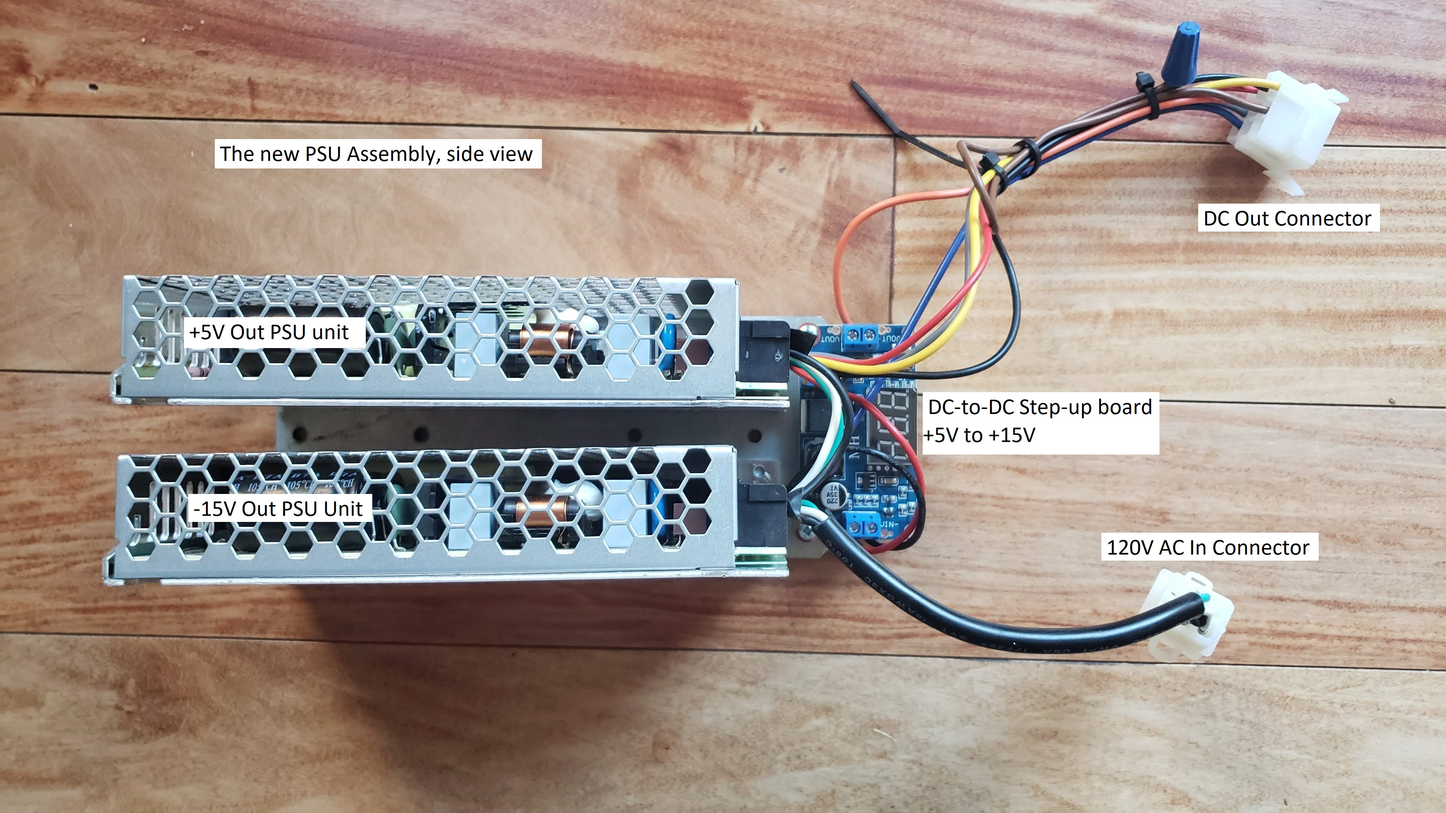
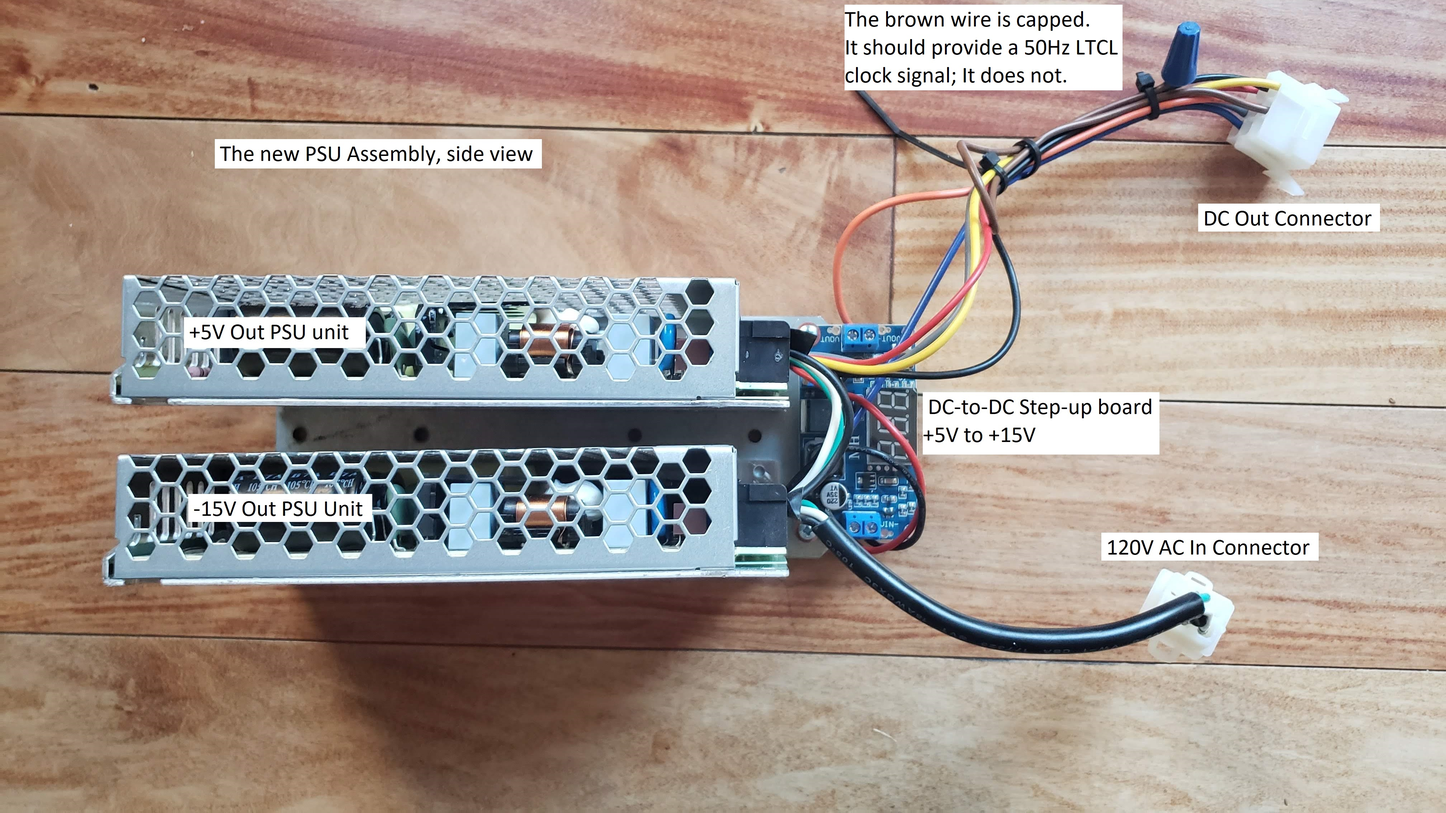
Yaaay. I am done. Am I?

Changed region(s): [[0.5625, 0.0, 0.7812, 0.1235]]

diff --git a/README.md b/README.md
@@ -36,7 +36,7 @@ In reality, I found out that my PDP11/05 uses much less that (note: it draws the
 
 - +5V: 11A
 - +15V: 0.06A
-- 15V: 0.2A
+- -15V: 0.2A
 
 
 ## Parts list for the new PSU
@@ -75,7 +75,7 @@ Crimp 3 wires (white, black and green) to the 3 male pins, and plug them at the 
 
 Crimp 7 different-colored wires to the 7 female pins, and plug them in the 9-pin connector. Connect the other ends according to the diagram.
 
-Complete all other wirings according to the diagram
+Complete all other wirings according to the diagram.
 
 Verify your work by comparing it with the wiring diagram and the provided photos. Pull on each wire and ensure that it is secured well.
 
@@ -92,7 +92,10 @@ Plug the PDP computer power cable in the outlet and turn on the key in front of 
 Adjust the voltage on the DC-to-DC step-up transformer to 15.0V by rotating the potentiometer on in with a small flat-head screwdriver.
 Measure the voltages at the 9-pin (DC out) connector and make sure they are the same as on the diagram. If not, 
 
-Turn off the PDP from the key on the front panel, disconnect the PDP computer power cable, plug the 9-pin (DC out) connector into the PDP, then restore power and turn on the power key again to horizontal position (power on). The PDP should run. Measure the voltages on the back of the backplane; I have labeled the wires (using white paper tape) that provide power to the backplane with labels "5V", "15V", "-15V", "Ground"; this simplifies this check. This is it! We did it. 
+Turn off the PDP from the key on the front panel, disconnect the PDP computer power cable, plug the 9-pin (DC out) connector into the PDP,
+then restore power and turn on the power key again to horizontal position (power on). The PDP should run.
+Measure the voltages on the back of the backplane; on mine, I have labeled the wires (using white paper tape) that provide power to the backplane with labels
+"5V", "15V", "-15V", "Ground"; this simplifies this check. This is it! We did it. Yaaaay.
 
 Note: No cats were harmed while building and testing this project!
 
@@ -100,9 +103,10 @@ Note: No cats were harmed while building and testing this project!
  - The "BUS DC LO L" and "BUS AC LO L" power fail early warning signals are supposed to go "high" (to +5V) few milliseconds after the power is turned on (see Page 11 at ...). 
    We connected them directly to the +5V PSU output, meaning that they go high as soon as the power is on.
    It seems that things work ok, but we may want to introduce a delay circuit for these two signals.
- - The "LTCL output" 50Hz signal is not being generated by the new PSU. I just capped the brown wire on Pin4 on the J2 DC Out connector (the blue plastic cap on the pictures).
-   This is some kind of a clock signal that is used to track date and time when the machine is running.
+ - The "LTCL output" 50Hz signal is not being generated by the new PSU. I just capped the brown wire on Pin 4 on the J2 DC Out connector (the blue plastic cap on the pictures).
+   This is some kind of a square-wave 5V TTL clock signal that is used to track date and time when the machine is running.
    My PDP is able to execute programs from PDP11GUI just fine; a further investigation is needed to find out where this signal is needed.
+   It canvbe produced in various ways, e.g. with a NE555 timer, or with single-board signal generators from AliExpress.
 
 # Photos
 There are many photos in the [Photos folder](./photos/)
